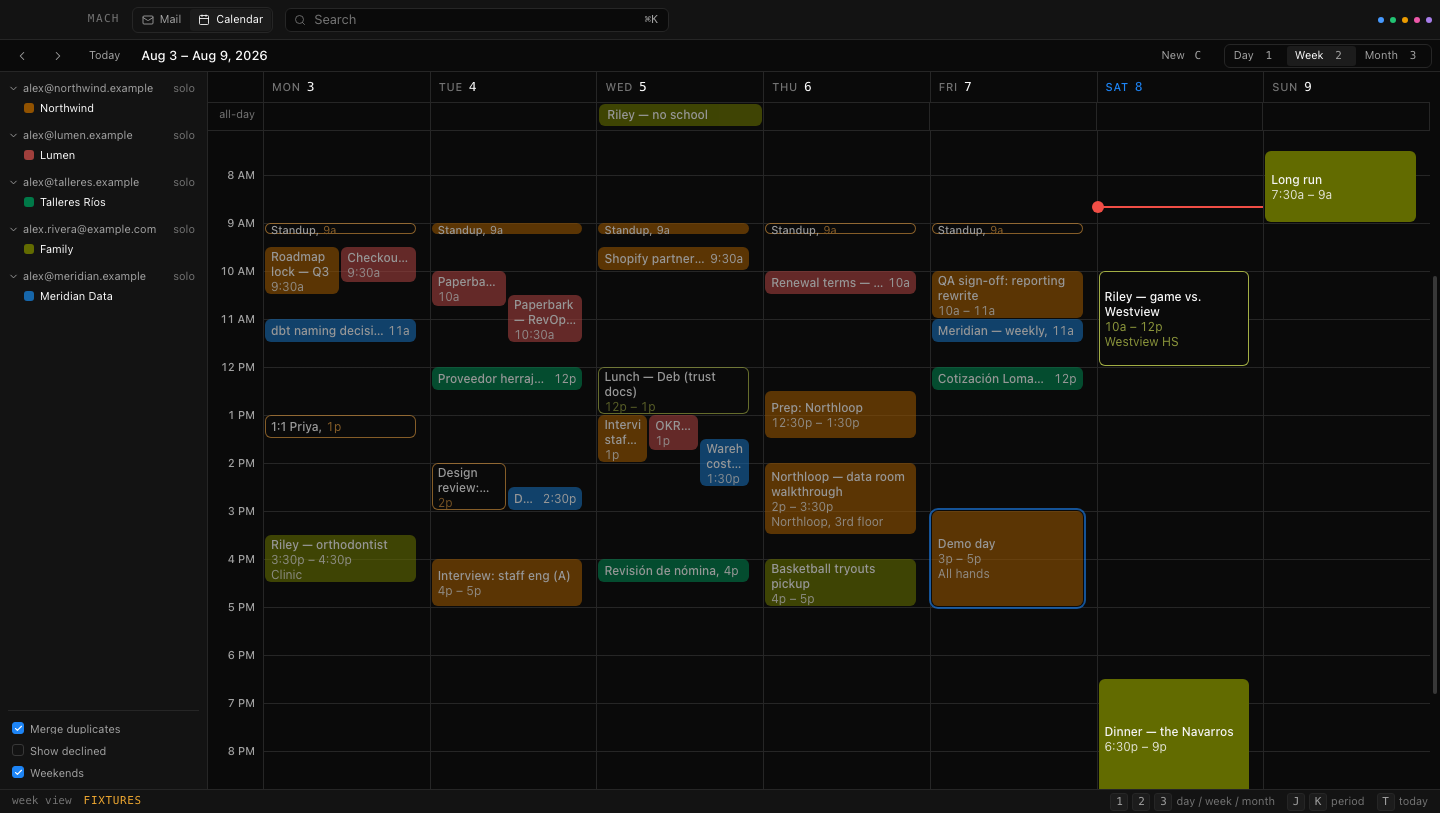
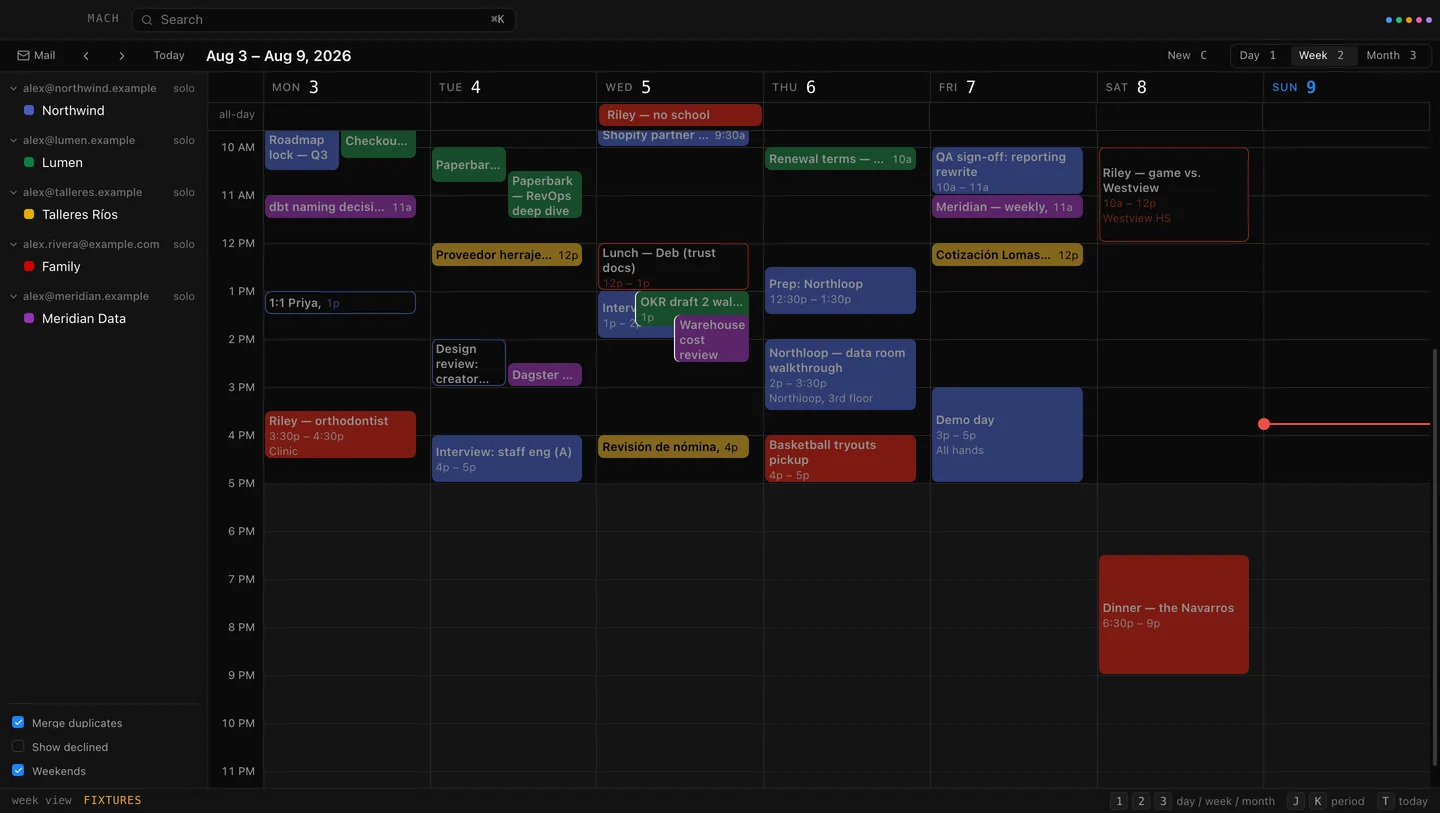
docs: 2x screenshots on the site
The four figures were 1440x813 shown at 1440 CSS pixels, so on any Retina
display the browser was upscaling them and the UI in them was soft — which is
the one thing a screenshot on that page has to do well.

Each figure now carries 1x and 2x sources with density descriptors, so a
standard display still fetches ~45-95KB and a Retina one fetches ~100-200KB.

Both densities are re-captured rather than resampled from the old file: the
originals predate the type ramp, the 4pt spacing grid and the three-line
thread row, so they were showing a UI that no longer exists. The mail figure
now has a conversation open, which its alt text already claimed.

Fixture data, as before, and the FIXTURES marker in the status bar says so.

diff --git a/docs/index.html b/docs/index.html
@@ -484,11 +484,18 @@
         <div class="shot">
           <picture>
             <source
-              srcset="screenshot-mail-dark.webp"
+              srcset="
+                screenshot-mail-dark.webp    1x,
+                screenshot-mail-dark@2x.webp 2x
+              "
               media="(prefers-color-scheme: dark)"
             />
             <img
               src="screenshot-mail.webp"
+              srcset="
+                screenshot-mail.webp    1x,
+                screenshot-mail@2x.webp 2x
+              "
               width="1440"
               height="813"
               alt="The Mach mail window: an account rail on the left, a dense unified thread list in the middle with a coloured bar per account, and an open conversation in the reading pane on the right."
@@ -599,11 +606,18 @@
           <div class="shot">
             <picture>
               <source
-                srcset="screenshot-calendar-dark.webp"
+                srcset="
+                  screenshot-calendar-dark.webp    1x,
+                  screenshot-calendar-dark@2x.webp 2x
+                "
                 media="(prefers-color-scheme: dark)"
               />
               <img
                 src="screenshot-calendar.webp"
+                srcset="
+                  screenshot-calendar.webp    1x,
+                  screenshot-calendar@2x.webp 2x
+                "
                 width="1440"
                 height="813"
                 alt="The Mach calendar in week view: five accounts' calendars overlaid in one grid, each event tinted by the calendar it belongs to, with a red line marking the current time."
